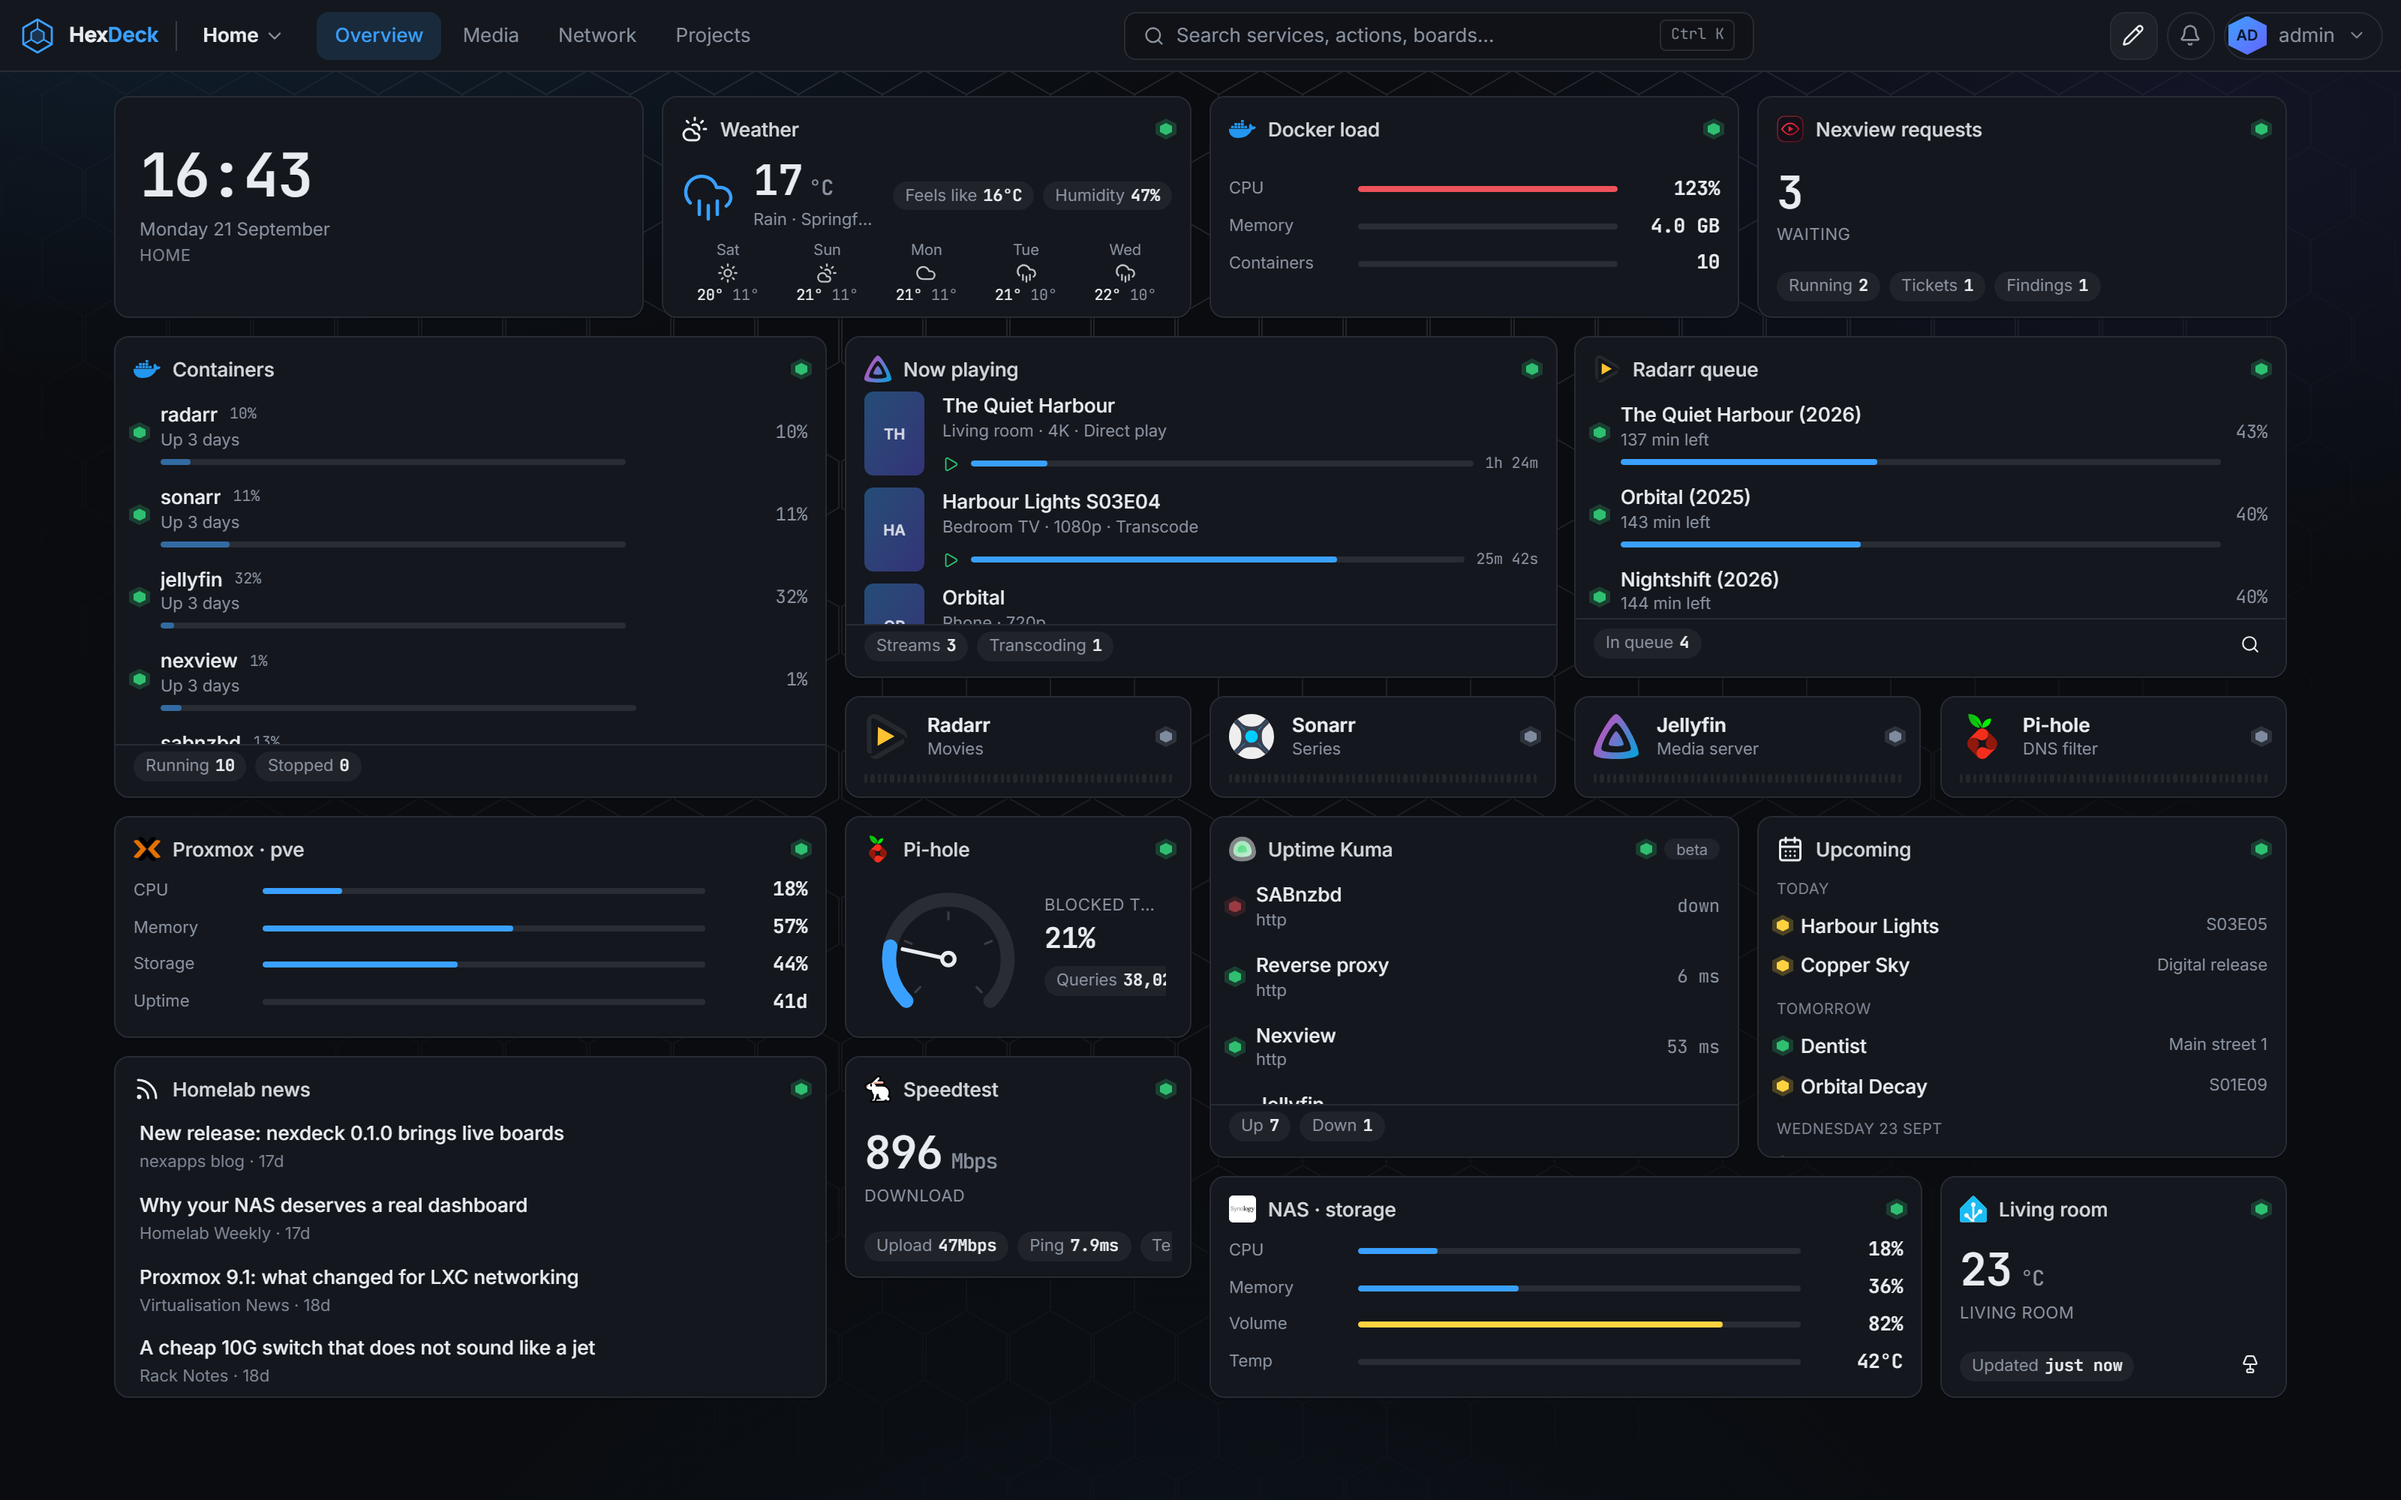
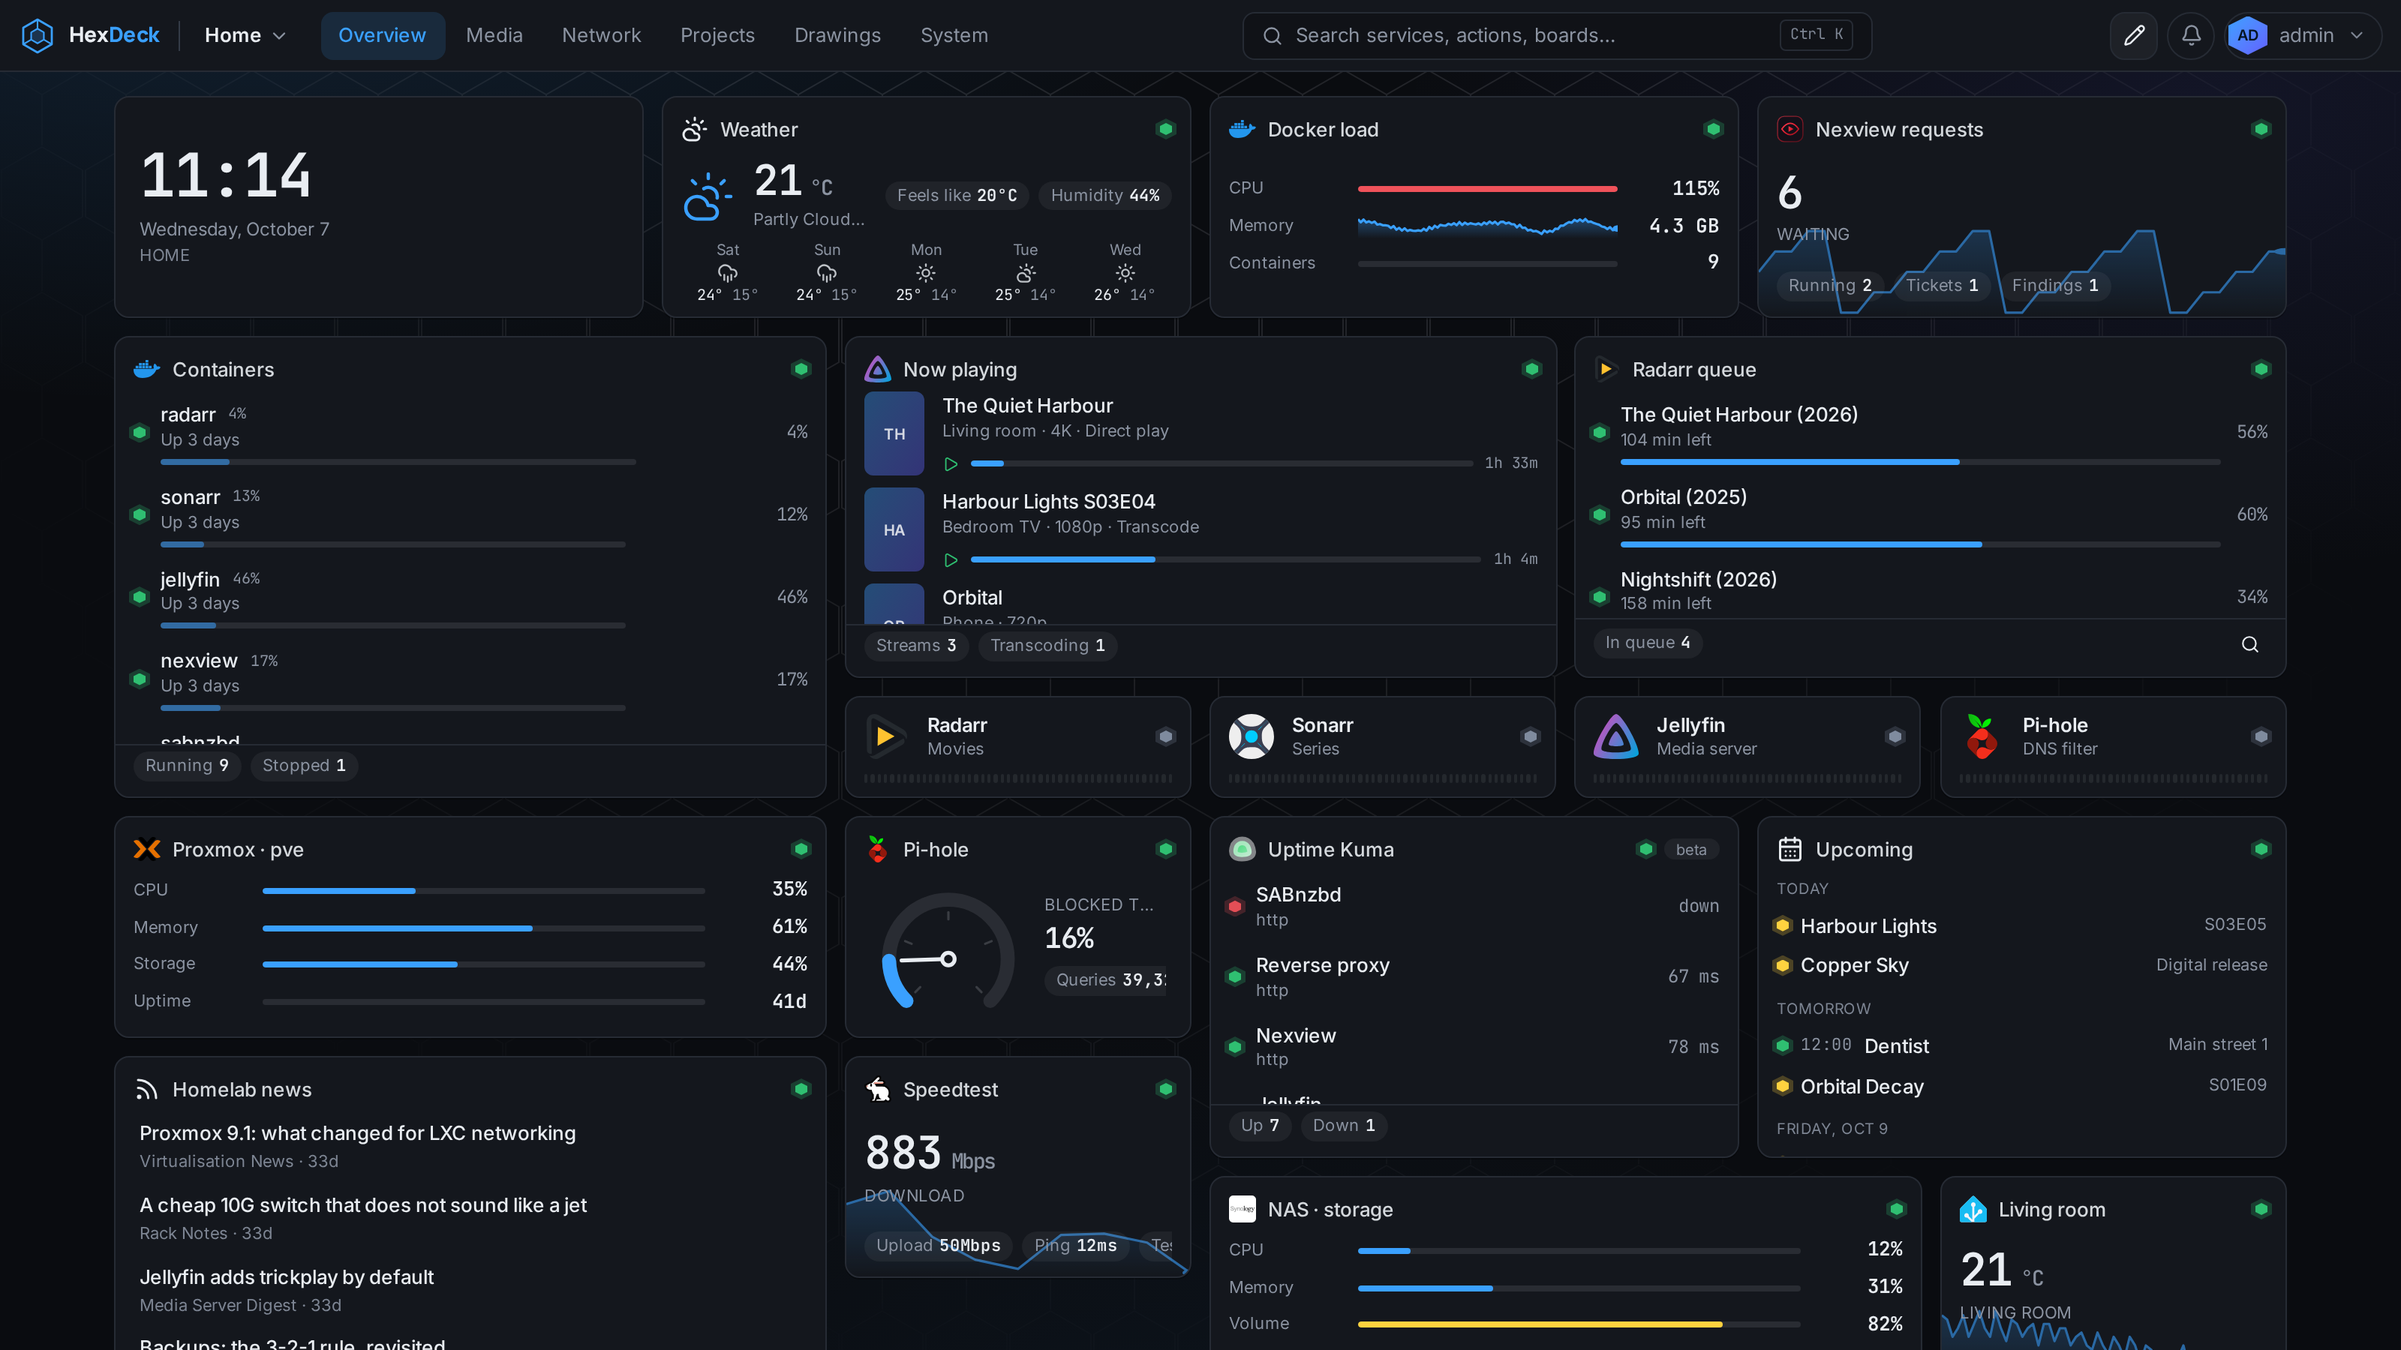
docs(readme): pictures of this version, and two of what it added since
The README's pictures were from 0.17.0 and showed neither the host card, nor
the status page, nor the updates list, nor anything of 0.20.0 and 0.21.0.
All eight are taken again in demo mode, at the same size and from the same
template boards, and two are added: a page of the drawings, and a page with
the machine, the problems on the board, the merged updates and the status
page as strips. Each has a short section that says what it shows.

diff --git a/README.md b/README.md
@@ -72,6 +72,18 @@ The roadmap draws milestones as hexagons and dated items as dots on one line, th
 
 ![The projects board: a roadmap with milestones and recurring maintenance, a notepad, a read-me card and the latest releases](docs/screenshot-projects.png)
 
+### Drawings
+
+A heading splits a page into sections. The status page can be drawn as strips, one wide bar of availability per service. A card that carries a traffic pair, like UniFi or a FRITZ!Box, can show it mirrored on one axis, in above and out below. Proxmox and UniFi draw a map of what hangs on what, evcc where the power goes round the house, Tautulli thirteen weeks of plays as squares. A group holds cards side by side and folds away; a tabs card shows several in one.
+
+![A page of drawings: a heading, the status page as strips, UniFi and FRITZ!Box traffic mirrored in and out, the energy flow of a house, a UniFi network map, a Proxmox cluster map and a heatmap of plays per day](docs/screenshot-drawings.png)
+
+### The machine and its updates
+
+The host card reads the machine HexDeck runs on, with no agent. Next to it every card that is yellow or red with its reason, one list of updates merged from WUD, Cup, Watchtower and the releases you follow, and the status page with its uptime bars.
+
+![A system page: the host card with processor, memory, load, temperature, disk and uptime, the problems on the board, the merged updates list, the status page as strips and the container updates](docs/screenshot-system.png)
+
 ### Themes
 
 The same *Network* board in Nord, and in Gruvbox's light side. Themes are chosen under System › Appearance and apply to everyone; each account still picks dark or light.

diff --git a/CHANGELOG.md b/CHANGELOG.md
@@ -27,6 +27,13 @@ a demo board with each of them, on a desktop, a tablet and a phone.
 - **The search box on a tablet** ran its placeholder over three lines. It
   stays on one and is cut short.
 
+### Documentation
+
+- **The README's pictures are new**, taken from this version in demo mode.
+  They were from 0.17.0, before the host card, the status page, the updates
+  list and the drawings. Two are added: a page of the drawings and a page with
+  the machine, its problems and its updates.
+
 ## 0.22.0 (2026-10-06)
 
 ### Changed
